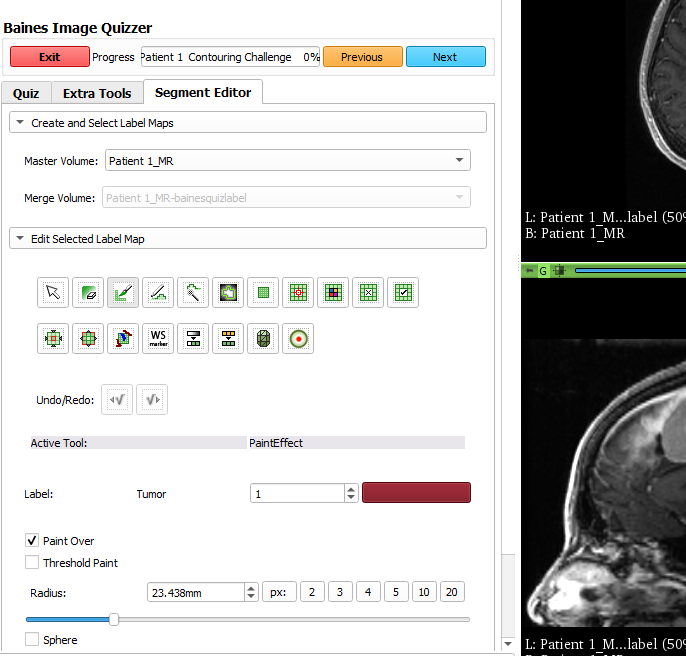
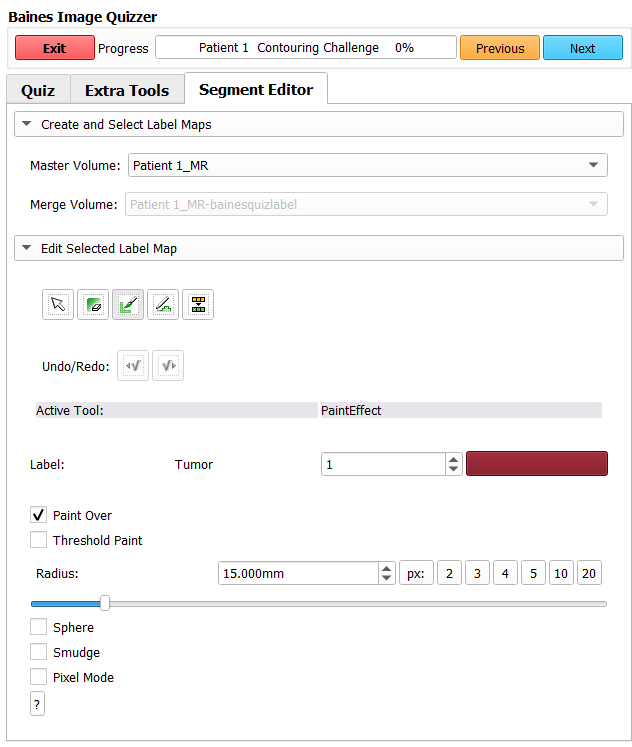
Adding example for MergeLabelMaps attribute; And clean up of various documented pieces

diff --git a/docs/administrator/examples/example_merge_labelmaps.md b/docs/administrator/examples/example_merge_labelmaps.md
@@ -1,0 +1,96 @@
+---
+hide:
+- toc
+---
+<!-- let javascript handle toc on left sidebar -->
+# Merging Label Maps
+
+The MergeLabelMaps attribute works in association with the Page attribute Loop="Y". 
+This is useful when you want the user to answer quiz questions for each ROI seen on an image
+and then have all the ROI's for that image displayed on a subsequent page.
+
+Merging can only be done in conjunction with the Loop="Y" attribute for a page. In order for the 
+merge to happen, there are a number of conditions that must be met. See [Merge LabelMaps](../elements_attributes/image/merge_labelmaps.md) in the
+scripting elements and attributes section for more details on the dependencies.
+
+
+
+## Prep
+
+Download and save Slicer's CTChest dataset as described in the [sample data](sample_data.md#slicer-sample-datasets) section.
+
+Suggested folder structure to match script:
+```
+.
+└─ ImageQuizzerData/
+      └─ ImageVolumes/
+          └─ CTChest/
+                └─ CTChest.nrrd
+```
+
+
+## Script example
+
+In this example, there are two pages. 
+The first page has Loop="Y" with the Segment Editor enabled giving the user the ability to create contours.
+The Repeat button, will present the same images and questions and the user can contour a different region of interest.
+
+The second page turns off the Segment Editor and has the 'DisplayLabelMapID' and 'MergeLabelMapContours' attributes
+assigned.
+
+
+Both pages are assigned to the same Page Group number (required). This prevents contours
+created from different Page Groups being merged together.
+
+```
+<Session>
+	<Page ID="Patient 1" Descriptor="Create Contours" Layout="OneUpRedSlice" Loop="Y" EnableSegmentEditor="Y" PageGroup="1">
+		<Image ID="CT" Type="Volume" LabelMapID="Lung ROI">
+				<DefaultDestination>Red</DefaultDestination>
+				<Layer>Background</Layer>
+				<DefaultOrientation>Axial</DefaultOrientation>
+				<Path>ImageVolumes\CTChest\CTChest.nrrd</Path>
+		</Image>
+		<QuestionSet ID="Repeating Page">
+			<Question Type="InfoBox">
+				<Option>Create contours to be merged</Option>
+				<Option>Use REPEAT button to create next contour.</Option>
+			</Question>
+		</QuestionSet>
+	</Page>
+	<Page ID="Patient 1" Descriptor="Display Merged Contours" Layout="OneUpRedSlice" PageGroup="1">
+		<Image ID="CT" Type="Volume" DisplayLabelMapID="Lung ROI" MergeLabelMaps="Y">
+				<DefaultDestination>Red</DefaultDestination>
+				<Layer>Background</Layer>
+				<DefaultOrientation>Axial</DefaultOrientation>
+				<Path>ImageVolumes\CTChest\CTChest.nrrd</Path>
+		</Image>
+		<QuestionSet ID="Merging conditions">
+			<Question Type="InfoBox">
+				<Option>Page displays contours created previously in the looping page.</Option>
+				<Option></Option>
+				<Option>Attribute and element value matching for this page and the previous page include:</Option>
+				<Option>          DisplayLabelMapID = LabelMapID</Option>
+				<Option>          PageGroup</Option>
+				<Option>          ImagePath</Option>
+			</Question>
+		</QuestionSet>
+	</Page>
+</Session>
+```
+
+### Results
+
+Following are screen shots of contours created using the example script above. 
+Here, a contour was created on the first page displayed. Then after pressing the Repeat button,
+another contour was created that was close to the original (some pixels overlapped).
+
+The first two snapshots show the contours created using the Repeat button.
+This is followed by the display of the merged contours.
+
+!!! Note
+	Pixel locations that have overlapping contours are rendered using the contour label associated with the greater label number.
+	
+![First contour](../assets/example_mergeLabelMaps_contour1.png)
+![Second contour](../assets/example_mergeLabelMaps_contour2.png)
+![Merged contours](../assets/example_mergeLabelMaps_merged.png)

diff --git a/docs/administrator/elements_attributes/page/pagegroup.md b/docs/administrator/elements_attributes/page/pagegroup.md
@@ -19,13 +19,24 @@ See also: [Randomizing pages](../session/randomize_page_groups.md),  [Randomized
 
 ## Description
 
-The PageGroup attribute can be assigned by the administrator. If it hasn't been defined in the original XML master quiz file,
-the Image Quizzer will add this attribute to the results quiz file and assign numbers consecutively starting at '1'. (This is
-helpful for cross referencing the [user's annotations results subfolders](../../results.md#annotations-subfolders) which have the PageGroup numbers embedded in the name).
+This attribute can be used to keep Pages together and is particularly valuable if you intend to randomize
+the presentation of patient images.
 
-When setting up for randomizing, you can use the PageGroup numbers to group Pages together. For example, if you want to 
-randomize patients but each patient has 3 Pages (baseline, follow-up1, follow-up2), you would assign 1 PageGroup number to all 3 Pages.
-Another example could be if one patient has images from multiple lesions that are set up to display on different pages.
+
+For example, consider the situation where patient randomization is desired, and each patient
+has 3 Pages (baseline, follow-up1, follow-up2). Assigning a common PageGroup number 
+to all three Pages would prevent the separation of these images during the randomization process.
+and as a result, the images would be presented sequentially within the quiz.
+
+
+Another application of the PageGroup attribute is for implementing the Merge Label Maps functionality.
+When employing the [MergeLabelMap](../image/merge_labelmaps.md) attribute, it is essential to designate identical PageGroup numbers
+to both the Page where contouring is initiated and the Page where the combined contours are displayed.
+
+
+ If the PageGroup attribute is not defined in the original XML master quiz file,
+the Image Quizzer will add this attribute to the results quiz file and assign numbers consecutively starting at '1'.
+(This is helpful for cross referencing the [user's annotations results subfolders](../../results.md#annotations-subfolders) which have the PageGroup numbers embedded in the name).
 
 
 ## PageGroup="0"
@@ -40,11 +51,7 @@ The remaining pages are randomized. Following are some use cases for assigning p
 
 ## Example
 
-!!! Note
-    See also [randomizing example](../../examples/example_randomizing.md) for a plug and play example.
-	
-	
-Master quiz:
+Following is an overview of PageGroup assignments if setting up for randomizing:
 
 ```
 <Session RandomizePageGroups="Y">
@@ -88,3 +95,8 @@ PatientB_Planning
 PatientB_Followup 1
 ```
 
+### See also:
+
+- [merging label maps example](../../examples/example_merge_labelmaps.md)
+- [randomizing example](../../examples/example_randomizing.md)
+	

diff --git a/docs/getting_started/index.md b/docs/getting_started/index.md
@@ -35,15 +35,23 @@ Download and install [3D Slicer](
 - Double click on the downloaded .exe file
 - Accept installation defaults
 
+!!! Warning
+    We are using version 4.11.20210226; revision 29738
+    
+	Using any other version of Slicer may have unpredictable behavior for this application.
+
+
+
 ##### Extensions
 
-- Install 3D Slicer extensions : SlicerRT, mpReview (optional)
+- Install 3D Slicer extensions : SlicerRT, SlicerOpenCV, mpReview (optional)
       * Open 3D Slicer
       * Select View > Extension Manager
-      * In the Search field (upper right-hand corner) input SlicerRT
-      * Click Install
-      * There will be a message to say the extension was installed
-      * Click on Restart (bottom right-hand corner) and OK
+		  * In the Search field (upper right-hand corner) input SlicerRT
+		  * Click Install
+		  * There will be a message to say the extension was installed
+		  * Click on Restart (bottom right-hand corner) and OK
+      * Repeat for SlicerOpenCV
       * Repeat for mpReview extension (optional)
           * This extension can be used as a preprocessor to convert dicom series slices to nrrd (or nifti) data volume to speed up loading of images when running the quiz
 
@@ -56,12 +64,6 @@ Download and install [3D Slicer](
     * Set Preferred multi-volume import format = volume sequence
     * Set Load referenced series = Always
     * Restart 3D Slicer if prompted
-
-!!! Note
-    We are using version 4.11.20210226; revision 29738
-    
-	Using any other version of Slicer may have unpredictable behavior for this application.
-
 
 
 

diff --git a/docs/administrator/elements_attributes/image/merge_labelmaps.md b/docs/administrator/elements_attributes/image/merge_labelmaps.md
@@ -16,16 +16,19 @@ hide:
 | **Syntax** | MergeLabelMaps="*option*" |  |
 | **Options** | Y | previous label maps are merged into one file and displayed|
 |             | N |(default) no merged label maps are created|
-| **Dependencies**| For current page/image elements |DisplayLabelMapID - exists|
-||| Path for image matches image on historical page |
-|||PageGroup - number matches that of historical element|
+| **Dependencies**| For current page & image elements |  (ie. page where historical contours are merged and displayed) |
+||| DisplayLabelMapID - exists |
 |||SegmentEditor - off|
 |||SegmentRequiredOnAnyImage - off|
-||For historical page/image elements| LabelMapID - matches DisplayLabelMapID |
-||| Path for image matches image on current page |
+|||Looping - off |
+|||PageGroup - number matches that of historical element|
+||| Path for image matches image on historical page |
+||For historical page & image elements| (ie. pages that will hold contours to be merged) |
+||| LabelMapID - matches DisplayLabelMapID |
 |||Loop='Y'|
-||| Page ID and Descriptor match for all repetitions (ignoring 'Rep##')|
+|||EnableSegmentEditor='Y' |
 || | PageGroup number match to current page |
+||| Path for image matches image on current page |
 
 
 

diff --git a/docs/administrator/elements_attributes/page/user_interaction_log.md b/docs/administrator/elements_attributes/page/user_interaction_log.md
@@ -15,6 +15,8 @@ hide:
 | **Syntax** | UserInteractionLog="*option*" |||
 | **Options** | N | (default) interaction logs are not created |
 |             | Y | interaction logs are created for each page |
+| **Depedencies** | SlicerOpenCV | required Slicer Extension as described in [Getting Started](../../../getting_started/index.md#extensions) (used to capture CPU Uptime)|
+
 
 ## Description
 
@@ -53,9 +55,9 @@ Following is a list of the information captured in each log file:
     - Screen coordinates X,Y for corner location
 	- Viewing window height, width (pixels),
 	- Background image name I,J,K,
-	- Foreground image name I,J,K,
+	- Foreground image name I,J,K,  (zeros if no foreground image)
 	- Background transformation 4x4 matrix (XY to IJK),
-	- Foreground transformation 4x4 matrix (XY to IJK)
+	- Foreground transformation 4x4 matrix (XY to IJK)   (zeros if no foreground image)
 
 
 

diff --git a/docs/user/contouring.md b/docs/user/contouring.md
@@ -34,7 +34,7 @@ The user can create a contour on images that have the Segment Editor enabled.
     You can also use the undo/redo buttons.
 
 
-At this time only certain buttons are activated:
+The following table describes functionalities of the editing tool:
 
 | Tool name | Functionality | Notes |
 |---|---|---|
@@ -44,6 +44,8 @@ At this time only certain buttons are activated:
 | DrawEffect | to draw a contour with a 'pen' | |
 | ChangeLabelEffect | to change a previously drawn contour's index#/color | select Input as the color to change and Output as the color to change to |
 | Undo/Redo | remove or restore previous contour | |
+| Sphere | to create a 3D contour that spans multiple slices ||
+| Smudge | automatically toggle between erase and draw  | starting inside a contour toggles to draw; starting outside contour toggles to erase |
 
 
 

diff --git a/docs/administrator/examples/example_user_interaction_log.md b/docs/administrator/examples/example_user_interaction_log.md
@@ -18,7 +18,8 @@ When you enable this feature, the application will:
 - generate a log file that captures the screen XY coordinates of the displayed viewing windows and the corresponding 
 IJK coordinates of the image volume displayed
 	
-See [UserInteractionLog](../elements_attributes/page/user_interaction_log.md) for details.
+See [UserInteractionLog](../elements_attributes/page/user_interaction_log.md) in the Scripting References section
+ for log file details.
 
  
 

diff --git a/docs/about/index.md b/docs/about/index.md
@@ -5,7 +5,7 @@ hide:
 <!-- let javascript handle toc on left sidebar -->
 
 
-![Baines logo](..\assets\bainesimaginglogo-small.png)
+![Baines logo](../assets/bainesimaginglogo-small.png)
 
 # Image Quizzer
 
